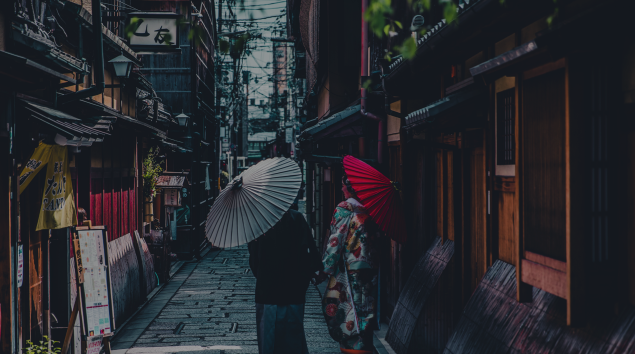
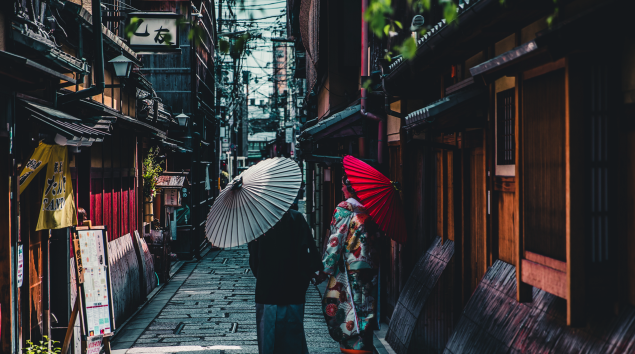
dark image overlay fixed

diff --git a/assets/css/style.css b/assets/css/style.css
@@ -17,7 +17,8 @@
     --blue: #006dfe;
     --blue-hover: #0059ce;
     --dark-blue: #1b7dff;
-    --shadow-bg: hsla(228, 26%, 11%, 0.6);
+    --shadow-bg: #15182399;
+    --shadow-bg-light: rgba(21, 24, 35, 0.3);
 }
 
 /* ANIMATIONS */
@@ -613,7 +614,7 @@ main {
 
 .card_overlay,
 .image_grid_overlay {
-    background-color: var(--shadow-bg);
+    background-color: var(--shadow-bg-light);
     color: var(--light);
     position: absolute;
     bottom: 0;
